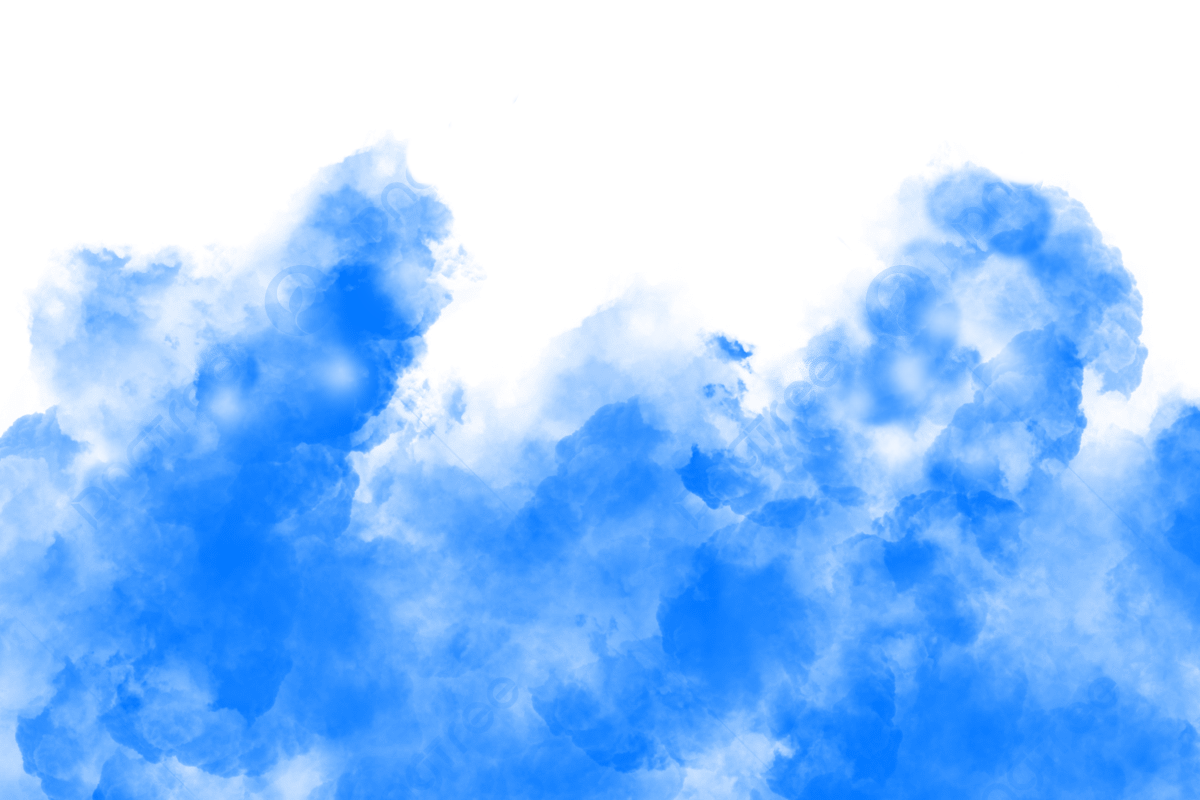
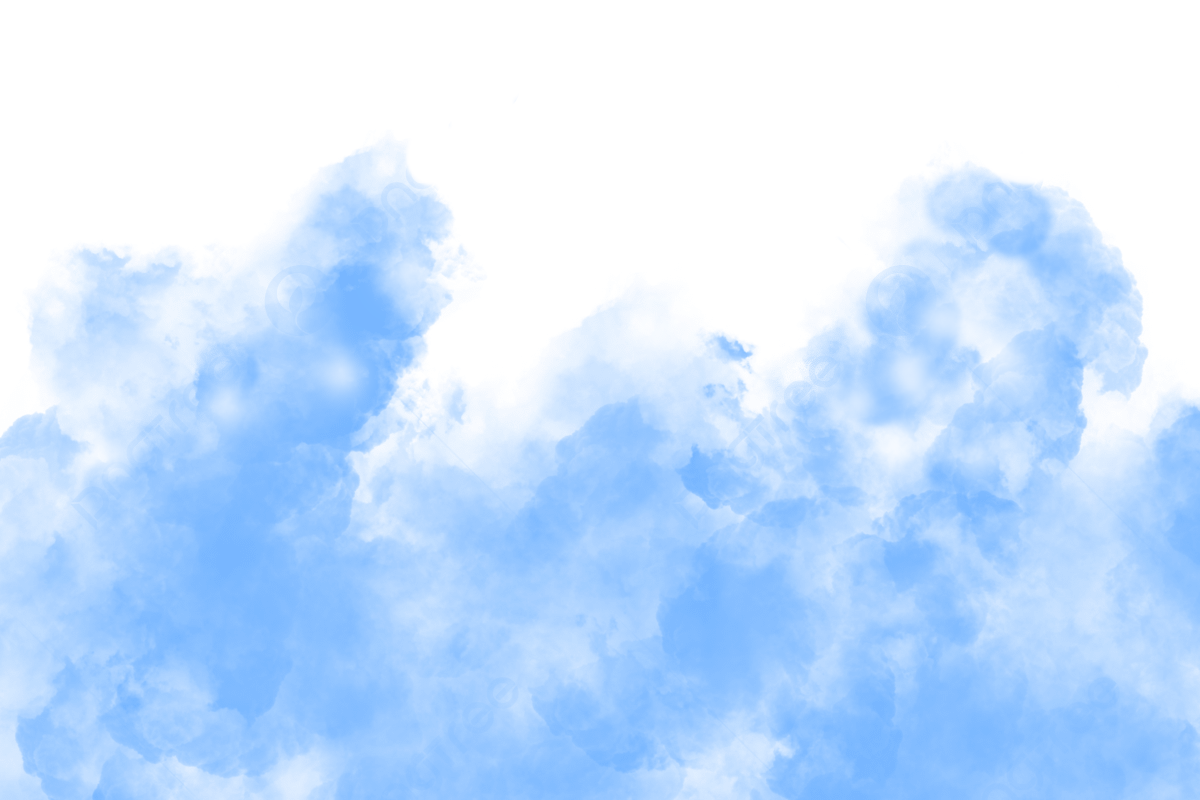
Modification theme color

diff --git a/style.css b/style.css
@@ -1657,8 +1657,7 @@ html.night-theme .bras-summary {
   align-items: center;
   justify-content: center;
   grid-column: 1 / -1;
-  background: var(--bg-dark);
-  background: var(--border);
+  background: var(--bg-input);
   
   border: 1px solid var(--bg-btn);
   border-radius: 8px;
@@ -1703,7 +1702,7 @@ html.night-theme .bras-city-count-badge {
 }
 
 .address-card {
-  background: var(--bg-input);
+  background: var(--bg-dark);
   border: 1px solid var(--border);
   border-radius: 10px;
   padding: 8px;
@@ -1803,11 +1802,7 @@ html.night-theme .no-data-msg {
   width: 100%;
   padding: 12px 10px;
   border-radius: 10px;
-  background: var(--bg-input);
-  border: 2px solid var(--border);
-  color: var(--text-light);
-
-  background: var(--border);
+  background: var(--bg-panel);
   border: 2px solid var(--bg-input);
   color: var(--text-light);
 